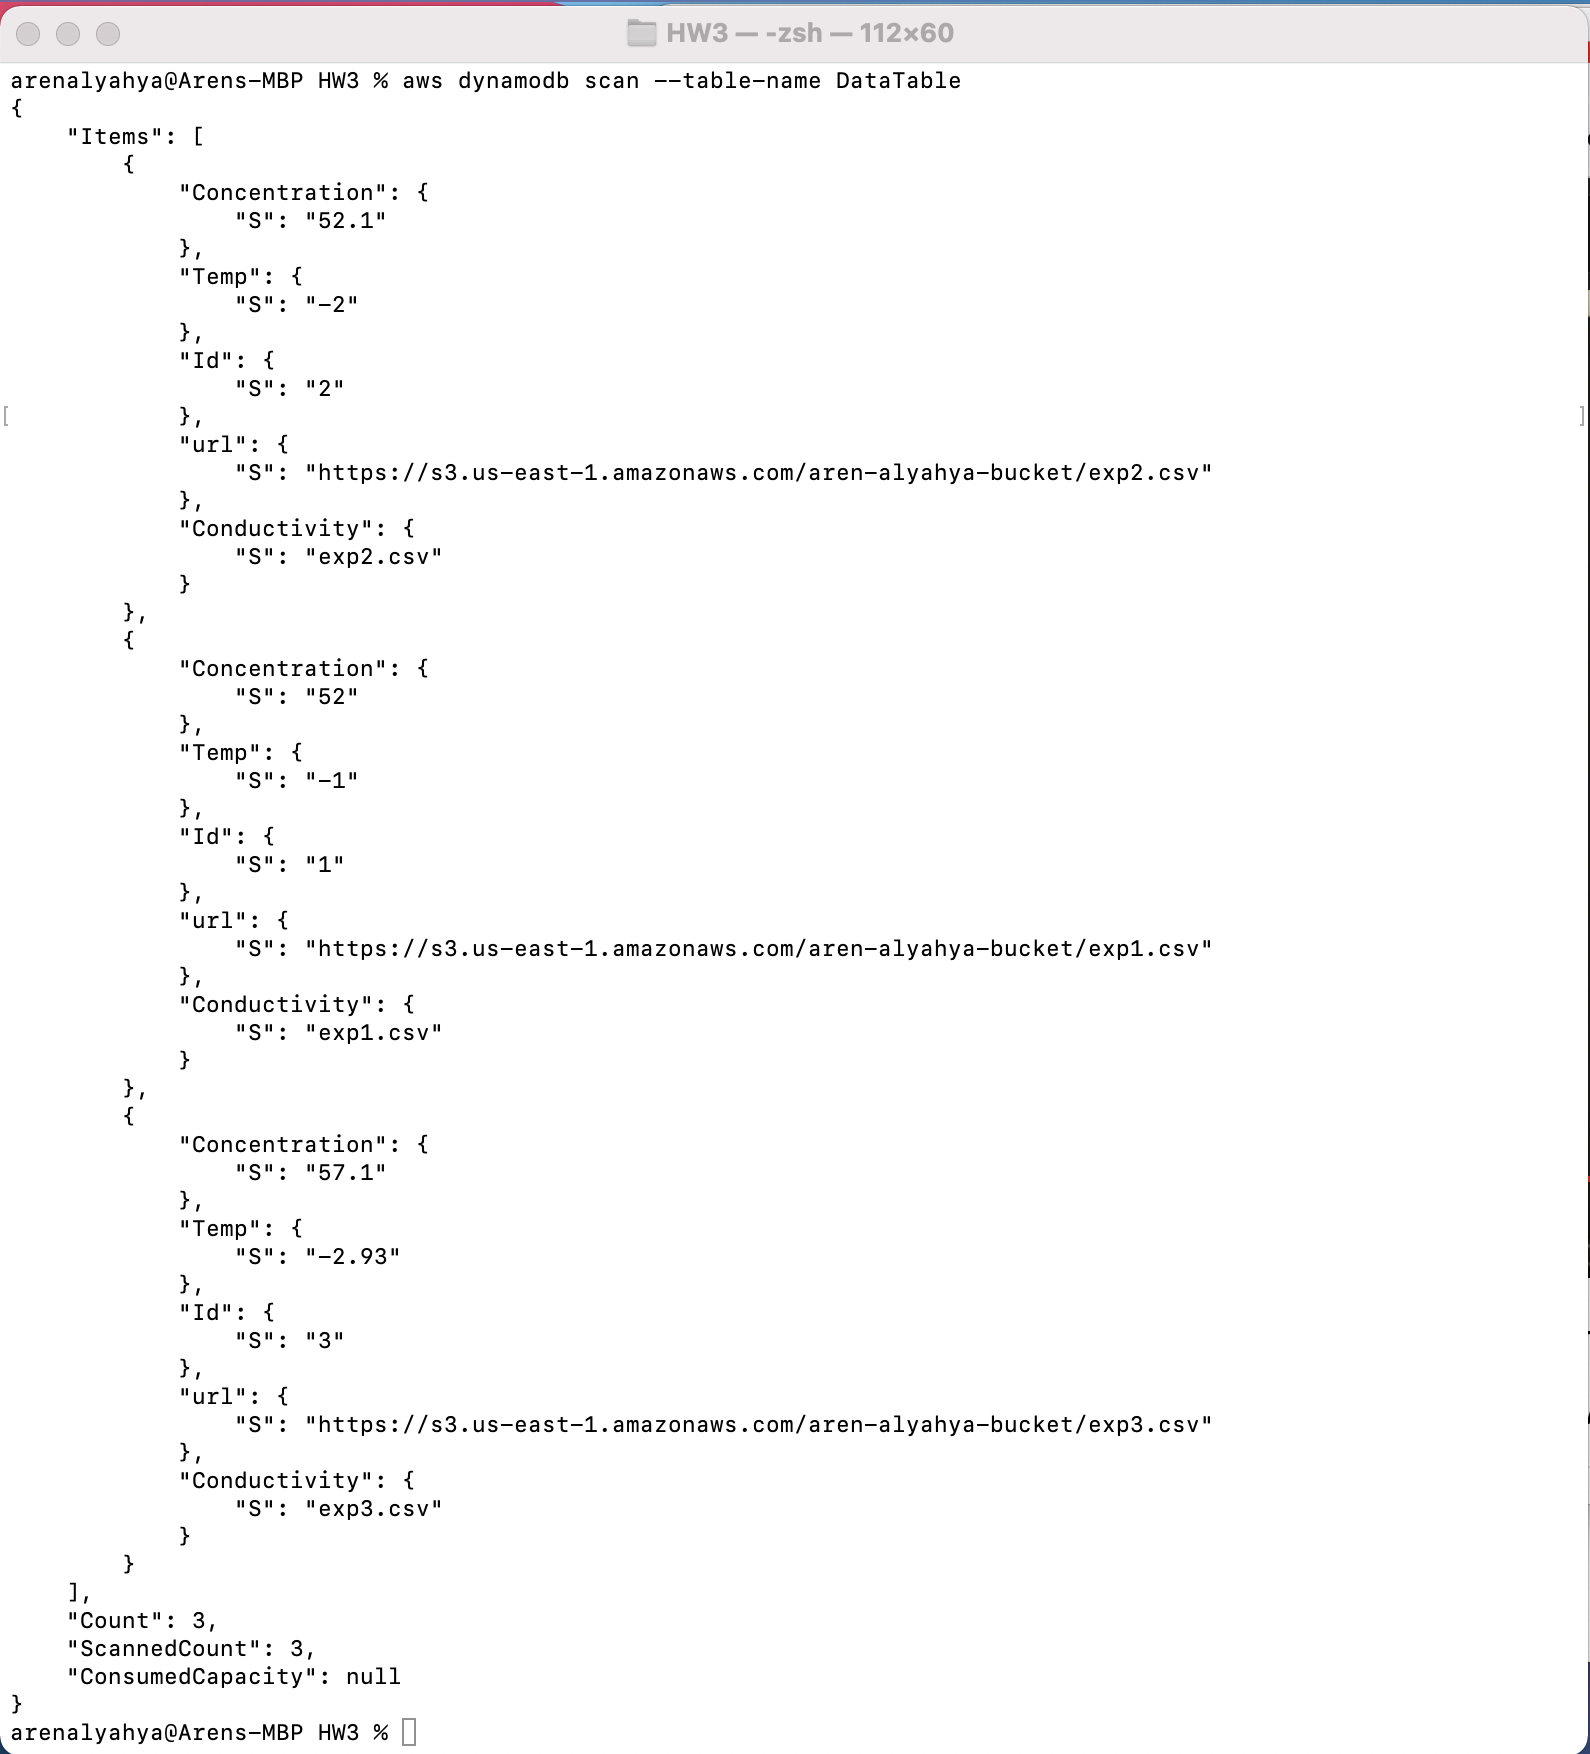
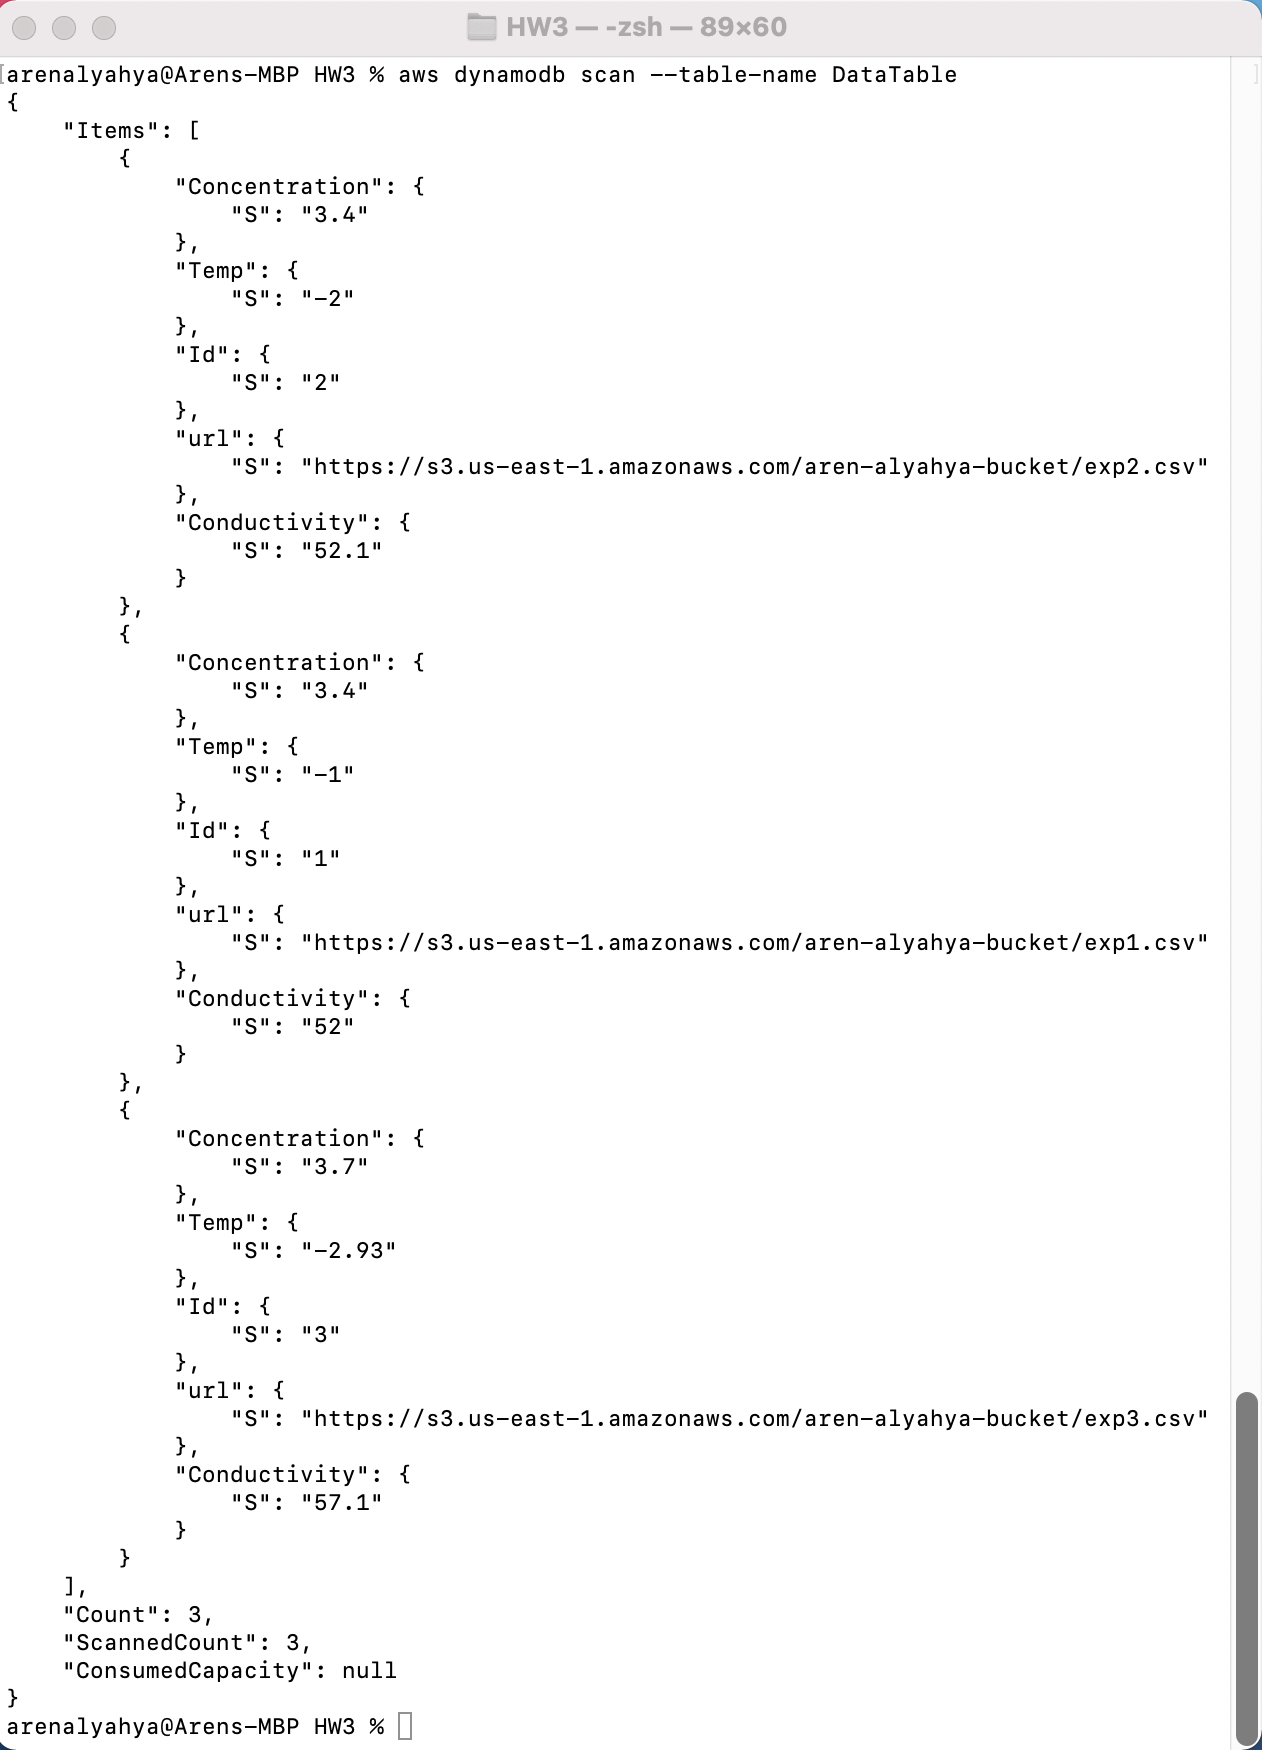
first

diff --git a/NoSQL.py b/NoSQL.py
@@ -21,8 +21,6 @@ def create_bucket():
 	# , CreateBucketConfiguration = {'LocationConstraint':'us-east-1'}
 
 
-
-
 def create_DataTable(dynamodb=None):
     if not dynamodb:
         dynamodb = boto3.resource('dynamodb', region_name ='us-east-1')
@@ -88,7 +86,7 @@ def read_csv_file():
             md = s3.Object('aren-alyahya-bucket',item[4]).Acl().put(ACL = 'public-read')
             url = urlbase + item[4]
             metedata_item = {'Id' : item[0], 'Temp' : item[1], 
-            'Conductivity': item [4],'Concentration': item[2], 'url':url}
+            'Conductivity': item [2],'Concentration': item[3], 'url':url}
 
             table.put_item(Item = metedata_item)
 
